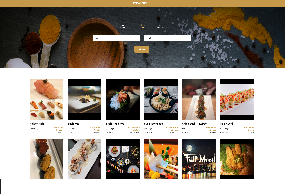
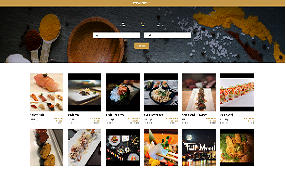
nearly finish!

diff --git a/src/components/Work/Work.js b/src/components/Work/Work.js
@@ -19,8 +19,7 @@ function Work() {
                     <Card.Body>
                         <Card.Title>Jammming</Card.Title>
                         <Card.Text className='card-text'>
-                            Some quick example text to build on the card title and make up the bulk of
-                            the card's content.
+                            An education app that will allow users to save songs to a playlist
                         </Card.Text>
                         <a className="work-link" href="https://github.com/JustinPong/Jammming" variant="primary">Source Code</a><br />
                         <a className="work-link" href="https://justinpong.github.io/Jammming/" variant="primary">Demo</a>
@@ -31,11 +30,10 @@ function Work() {
                     <Card.Body>
                         <Card.Title>To-Do-List</Card.Title>
                         <Card.Text className='card-text'>
-                            Some quick example text to build on the card title and make up the bulk of
-                            the card's content.
+                            Demonstrate the technical and non-technical skills developed.
                         </Card.Text>
-                        <a className="work-link" href="https://github.com/JustinPong/react-tasks-manager" variant="primary">Source Code</a><br />
-                        <a className="work-link" href="#" variant="primary">Demo</a>
+                        <a className="work-link" href="https://github.com/JustinPong/react-todo-list" variant="primary">Source Code</a><br />
+                        <a className="work-link" href="https://justinpong.github.io/react-todo-list/" variant="primary">Demo</a>
                     </Card.Body>
                 </Card>
                 <Card style={{ width: '18rem' }}>
@@ -43,8 +41,7 @@ function Work() {
                     <Card.Body>
                         <Card.Title>Colmar-Academy</Card.Title>
                         <Card.Text className='card-text'>
-                            Some quick example text to build on the card title and make up the bulk of
-                            the card's content.
+                            A responsive website, mini project
                         </Card.Text>
                         <a className="work-link" href="https://github.com/JustinPong/Colmar-Academy" variant="primary">Source Code</a><br />
                         <a className="work-link" href="https://justinpong.github.io/Colmar-Academy/" variant="primary">Demo</a>
@@ -57,8 +54,7 @@ function Work() {
                     <Card.Body>
                         <Card.Title>Find Your Hat</Card.Title>
                         <Card.Text className='card-text'>
-                            Some quick example text to build on the card title and make up the bulk of
-                            the card's content.
+                            Building an interactive terminal game by 2D array
                         </Card.Text>
                         <a className="work-link" href="https://github.com/JustinPong/find-your-hat" variant="primary">Source Code</a><br />
                         <a className="work-link" href="#" variant="primary">Demo</a>
@@ -69,8 +65,7 @@ function Work() {
                     <Card.Body>
                         <Card.Title className="card-title">Ravenous</Card.Title>
                         <Card.Text className='card-text'>
-                            Some quick example text to build on the card title and make up the bulk of
-                            the card's content.
+                            React and API project
                         </Card.Text>
                         <a className="work-link" href="https://github.com/JustinPong/Ravenous" variant="primary">Source Code</a><br />
                         <a className="work-link" href="#" variant="primary">Demo</a>

diff --git a/src/components/Nav/Nav.js b/src/components/Nav/Nav.js
@@ -20,7 +20,7 @@ function Nav() {
                 <Link to="/skills" className="link">Skills</Link>
                 <Link to="/work" className="link">Work</Link>
                 <a href={Pdf} className="link">Resume</a>
-                <Link to="/contact" className="link">Contact</Link>
+                {/* <Link to="/contact" className="link">Contact</Link> */}
             </div>
         </div>
     )

diff --git a/src/components/Work/Work.css b/src/components/Work/Work.css
@@ -14,7 +14,7 @@
     justify-content: space-around;
     margin: 0 auto;
     margin-top: 130px;
-    width: 60%;
+    width: 70%;
 }
 
 .work-page-bottom{
@@ -22,7 +22,7 @@
     justify-content: space-around;
     margin: 0 auto;
     margin-top: 40px;
-    width: 60%;
+    width: 70%;
 }
 
 .work-link{
